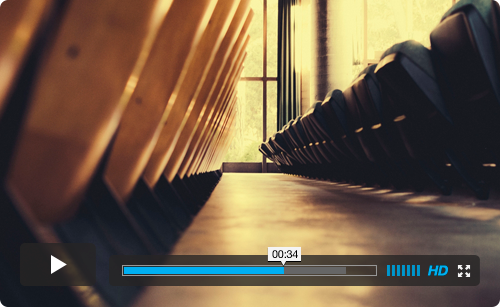
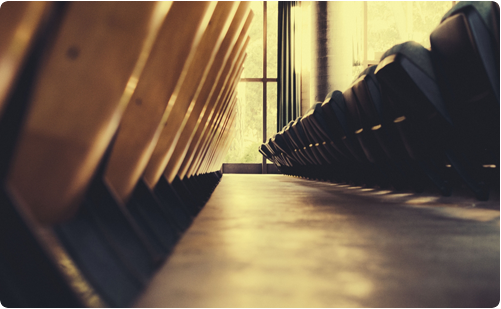
footer

diff --git a/www/index.html b/www/index.html
@@ -62,13 +62,52 @@
                     <input type="text" placeholder="Email Address">
                     <button>Notify</button>
                 </div>
-                <div class="col-6">
-                    <video src="img/main/video.mp4" width="400" height="400" controls></video>
+                <div class="col-6 video">
+                    <video poster="img/main/video.png" controls></video>
                 </div>
             </div>
         </div>
     </div>
 <footer>
+    <div class="container">
+        <div class="row">
+            <div class="col-12 testimonials">
+                <p>“Lorem ipsum dolor sit amet, consectetur adipiscing elit. Mauris interdum velit vitae nulla molestie eu commodo nulla dapib us. Donec id sollicitudin urna. Integer at dui ac leo fermentum varius eleifend ut.”</p>
+                <p>Jane Hunt</p>
+            </div>
+        </div>
+    </div>
+    <div class="face">
+        <img src="img/footer/face/1.png" alt="">
+        <img src="img/footer/face/2.png" alt="">
+        <img src="img/footer/face/3.png" alt="">
+        <img src="img/footer/face/4.png" alt="">
+        <img src="img/footer/face/5.png" alt="">
+        <img src="img/footer/face/6.png" alt="">
+        <img src="img/footer/face/7.png" alt="">
+        <img src="img/footer/face/8.png" alt="">
+        <img src="img/footer/face/9.png" alt="">
+        <img src="img/footer/face/10.png" alt="">
+        <img src="img/footer/face/11.png" alt="">
+        <img src="img/footer/face/12.png" alt="">
+        <img src="img/footer/face/13.png" alt="">
+        <img src="img/footer/face/14.png" alt="">
+        <img src="img/footer/face/15.png" alt="">
+        <img src="img/footer/face/16.png" alt="">
+        <img src="img/footer/face/17.png" alt="">
+        <img src="img/footer/face/18.png" alt="">
+        <img src="img/footer/face/19.png" alt="">
+        <img src="img/footer/face/20.png" alt="">
+        <img src="img/footer/face/21.png" alt="">
+    </div>
+    <div class="container">
+        <div class="row">
+            <div class="col-12">
+                <p class="getInThoch">Say Hi & Get in Touch</p>
+            </div>
+        </div>
+    </div>
+
 
 </footer>
 

diff --git a/www/css/style.css b/www/css/style.css
@@ -46,7 +46,7 @@ header p {
 }
 
 header .hand {
-    margin-left: 59px;
+    margin-left: 69px;
     margin-top: 83px;
 }
 
@@ -125,7 +125,7 @@ main .futures p:nth-child(3) {
     font-size: 22px;
     font-weight: 400;
     line-height: 18px;
-    margin-top: 59px;
+    margin-top: 60px;
     margin-left: 10px;
 }
 
@@ -166,4 +166,57 @@ main .futures p:nth-child(3) {
     font-size: 20px;
     font-weight: 700;
     margin-bottom: 145px;
+}
+
+video {
+    width: 500px;
+    height: 307px;
+    margin-top: 60px;
+    margin-left: 84px;
+}
+
+footer .testimonials {
+    display: grid;
+    align-items: center;
+    justify-content: center;
+}
+
+footer .testimonials p:nth-child(1) {
+    width: 825px;
+    height: 47px;
+    color: #848484;
+    font-family: "Helvetica";
+    font-size: 18px;
+    font-style: italic;
+    line-height: 30px;
+    text-align: center;
+    margin-top: 60px;
+    margin-bottom: 26px;
+}
+
+footer .testimonials p:nth-child(2), .getInThoch {
+    font-family: "Raleway", sans-serif;
+    font-size: 18px;
+    font-weight: 700;
+    line-height: 20px;
+    text-align: center;
+}
+
+footer .face{
+    display: flex;
+    align-items: center;
+    justify-content: center;
+    margin-top: 13px;
+    margin-bottom: 59px;
+}
+
+footer .face img{
+    filter: gradient(startColorstr='#fcecfc');
+    float: left;
+    margin-left: 5px;
+}
+
+footer .face img :hover {
+    filter: Alpha(opacity=50);
+    background-color:  #2ecc71;
 }
